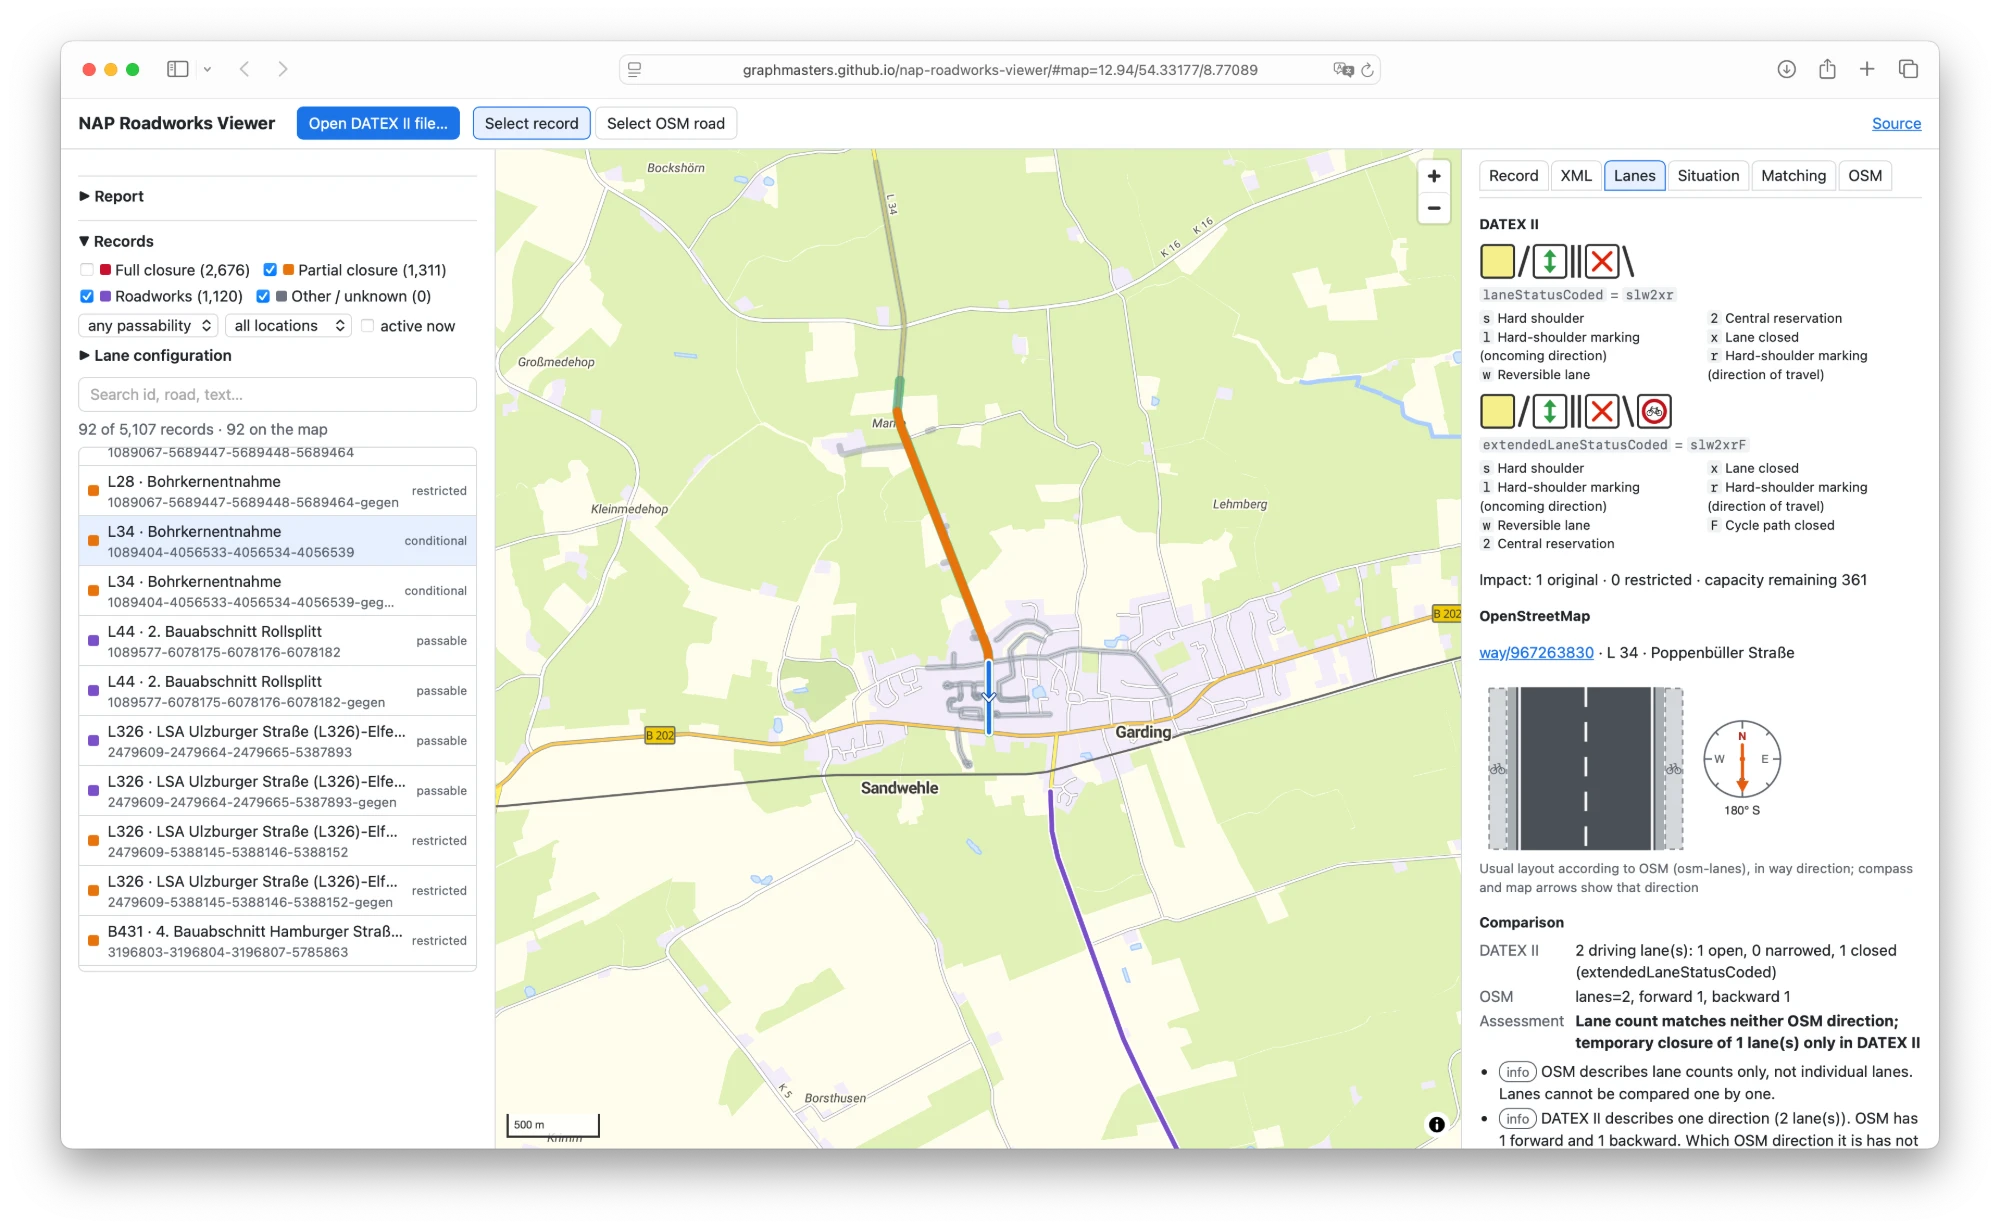
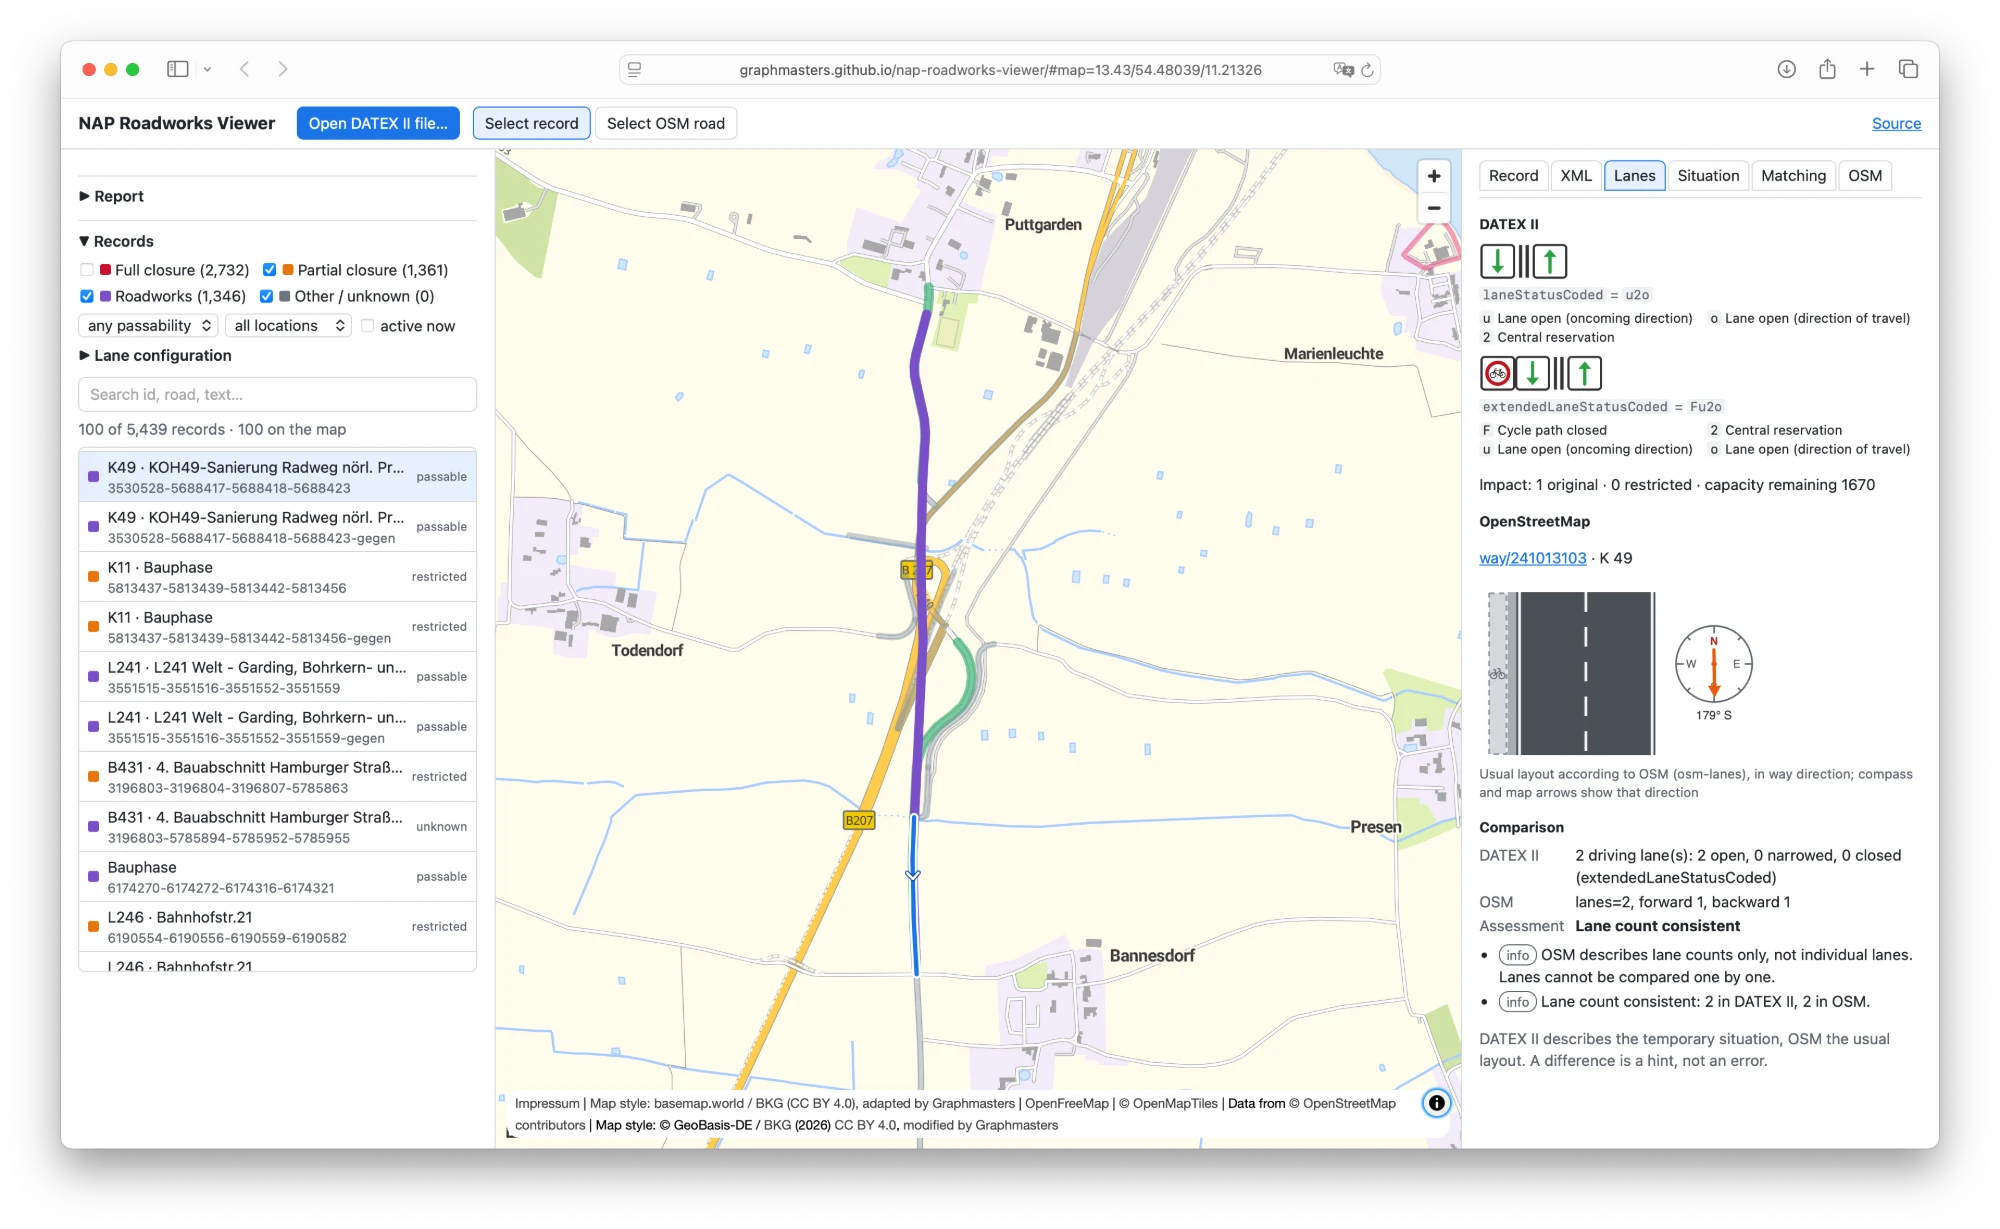
README: new screenshot; drop the concept paragraph, note at the bottom
- Replace the screenshot with a K 49 cycle-path record near Puttgarden
  (Fehmarn): extendedLaneStatusCoded Fu2o next to the OSM lane layout
  and compass. It shows the map attribution itself, so the caption
  credits only the data (LBV.SH via Mobilithek, licence-free).
- Remove the paragraph about the NAP Roadworks Explorer concept.
- Move the note on Claude-generated code to the end of the README.

diff --git a/README.md b/README.md
@@ -6,21 +6,12 @@ profile checks, a map, OpenStreetMap road lookup, lane comparison and passabilit
 **Demo:** <https://graphmasters.github.io/nap-roadworks-viewer/>. Open or drop a DATEX II XML file,
 plain or gzip-compressed. The file is processed in your browser and is not uploaded.
 
-> [!NOTE]
-> The code in this repository was generated with [Claude](https://www.anthropic.com/claude)
-> (Anthropic) under human direction and review.
+![NAP Roadworks Viewer with Schleswig-Holstein roadworks: the record list on the left, a K 49 cycle-path record on Fehmarn on the map, and the Lanes tab comparing its DATEX II lane status with the OSM lane layout and way direction](docs/screenshot.webp)
 
-The viewer is the Apache-2.0 base of the *NAP Roadworks Explorer* concept (NAPCORE Mobility Data
-Days 2026). A separate explorer will add routing on top of it. This repository has no routing code.
-
-![NAP Roadworks Viewer with Schleswig-Holstein roadworks: the record list on the left, the selected L 34 record on the map, and the Lanes tab comparing its DATEX II lane status with the OSM lane layout and way direction](docs/screenshot.webp)
-
-*A roadworks record on the L 34 near Garding. Lanes tab: the DATEX II lane status (`slw2xrF`: one
-lane closed, a reversible lane, the cycle path closed) next to the usual OSM layout of the matched
-way, with a compass for its direction. Data: [Landesbetrieb Straßenbau und Verkehr
-Schleswig-Holstein (LBV.SH)](https://mobilithek.info/offers/110000000003237002) via Mobilithek,
-licence-free. Map: © OpenStreetMap contributors, OpenMapTiles, OpenFreeMap; style basemap.world /
-BKG (CC BY 4.0).*
+*Cycle-path works on the K 49 near Puttgarden (Fehmarn). Lanes tab: the DATEX II lane status
+(`Fu2o`: cycle path closed, both lanes open) next to the usual OSM layout of the matched way, with a
+compass for its direction. Data: [Landesbetrieb Straßenbau und Verkehr Schleswig-Holstein
+(LBV.SH)](https://mobilithek.info/offers/110000000003237002) via Mobilithek, licence-free.*
 
 ## What it does
 
@@ -146,3 +137,7 @@ OpenMapTiles, OpenFreeMap; map style basemap.world / BKG (CC BY 4.0), adapted by
 
 When you publish screenshots or results from a DATEX II feed, credit its publisher as their
 licence requires.
+
+> [!NOTE]
+> The code in this repository was generated with [Claude](https://www.anthropic.com/claude)
+> (Anthropic) under human direction and review.
